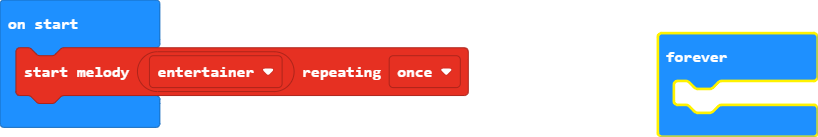
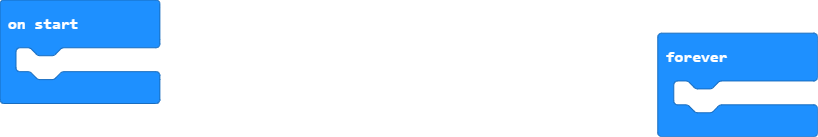
Update main.blocks, main.ts

Changed region(s): [[0.0, 0.3212, 0.5807, 0.9343], [0.7946, 0.2044, 1.0, 1.0]]

diff --git a/main.ts b/main.ts
@@ -1,4 +1,3 @@
-music.startMelody(music.builtInMelody(Melodies.Entertainer), MelodyOptions.Once)
 basic.forever(function () {
 	
 })
